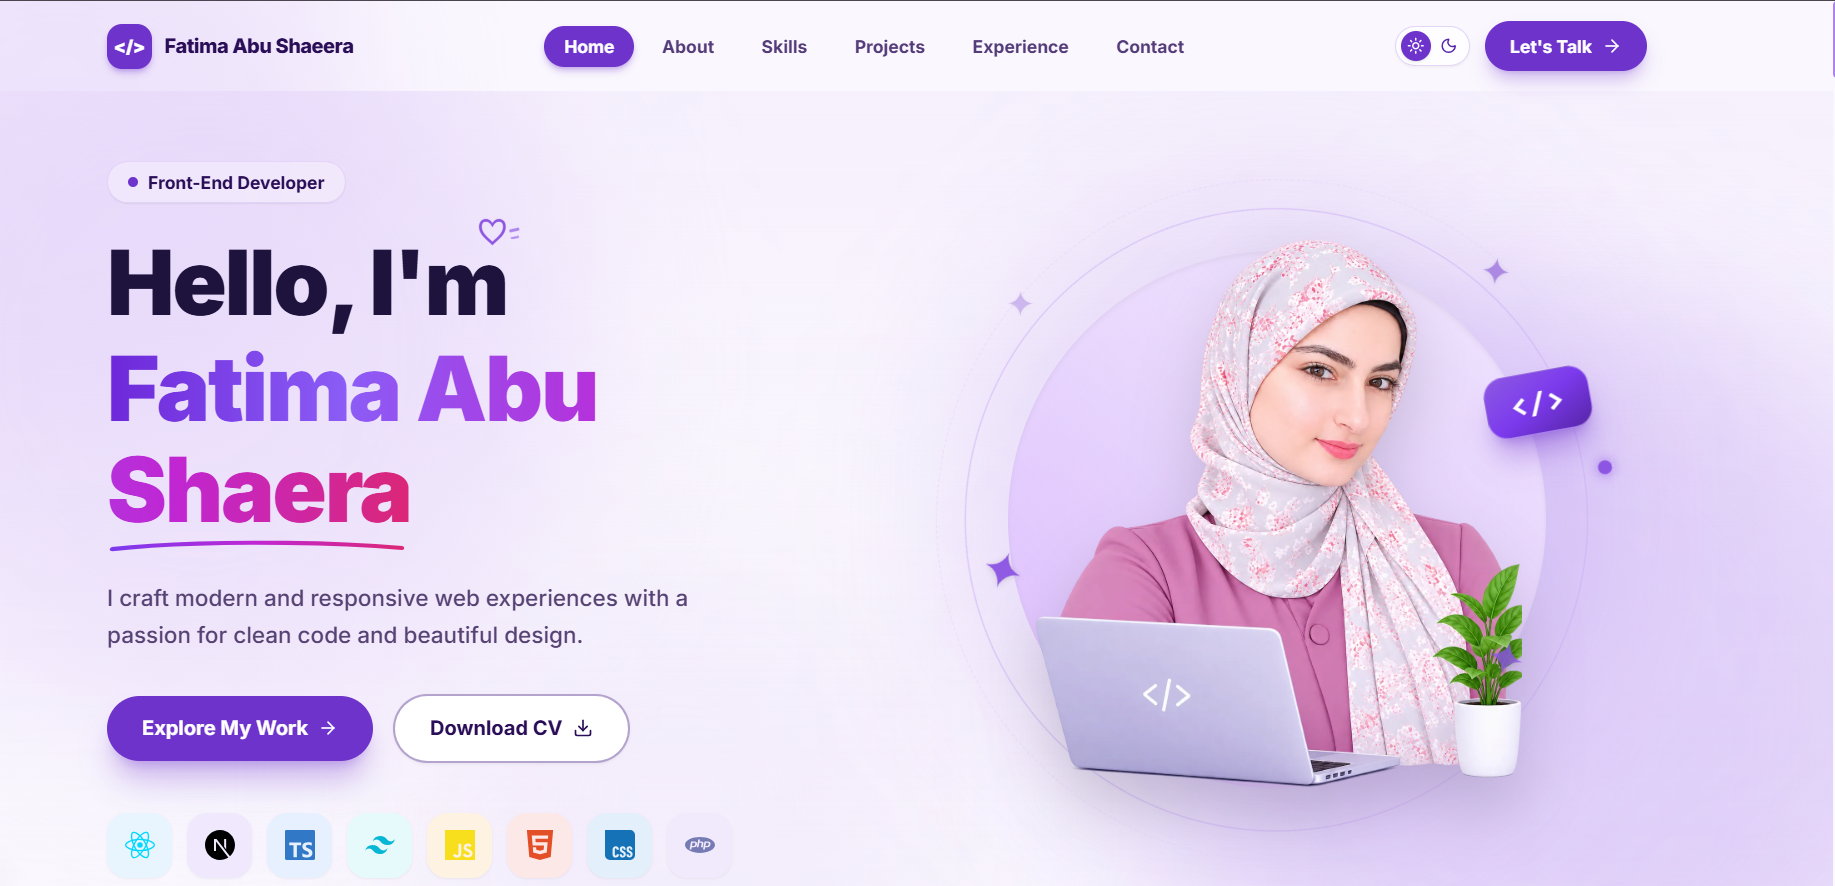
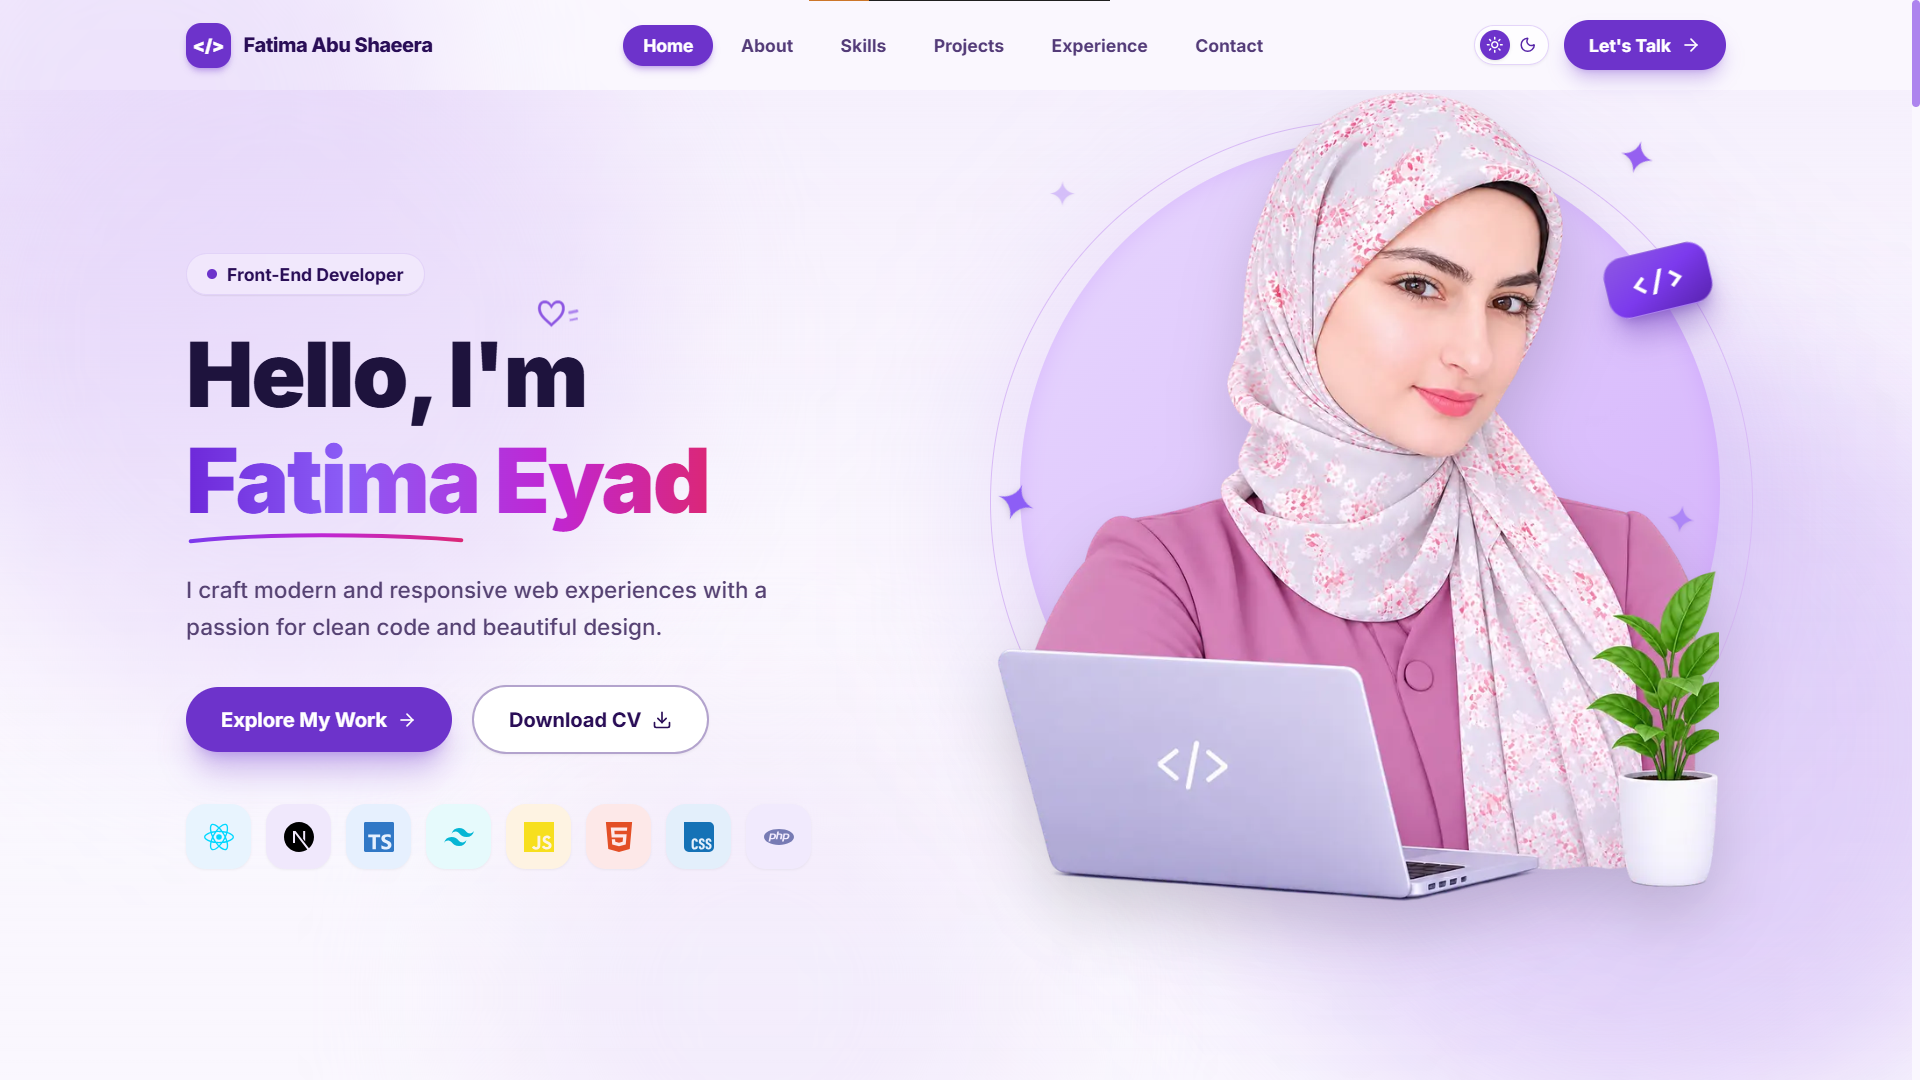
Update portfolio experience and project content

diff --git a/src/components/Experience.js b/src/components/Experience.js
@@ -1,9 +1,29 @@
 "use client";
+import { useRef } from "react";
+import { motion, useScroll, useSpring, useTransform } from "framer-motion";
 import { GraduationCap, Award, Calendar, MapPin, BookOpen } from "lucide-react";
 import Reveal from "./Reveal";
 import { experience } from "@/data/experience";
 
 export default function Experience() {
+  const containerRef = useRef(null);
+
+  // Track scroll position within this timeline container
+  const { scrollYProgress } = useScroll({
+    target: containerRef,
+    offset: ["start 75%", "end 60%"],
+  });
+
+  // Smooth out the progress spring so the line flows organically
+  const smoothProgress = useSpring(scrollYProgress, {
+    stiffness: 90,
+    damping: 24,
+    restDelta: 0.001,
+  });
+
+  // Map progress to height percentage (0% to 100%)
+  const lineHeight = useTransform(smoothProgress, [0, 1], ["0%", "100%"]);
+
   return (
     <section id="experience" className="mx-auto max-w-4xl scroll-mt-24 px-6 py-20">
       <Reveal className="text-center">
@@ -18,67 +38,85 @@ export default function Experience() {
         </p>
       </Reveal>
 
-      <div className="relative mt-14 ml-4 border-l-2 border-brand-200 dark:border-brand-800 pl-8 sm:pl-10 space-y-12">
-        {experience.map((item, i) => {
-          const isEdu = item.type === "education";
-          const Icon = isEdu ? GraduationCap : Award;
+      <div ref={containerRef} className="relative mt-14 ml-2 sm:ml-4">
+        {/* Background Track Line (subtle light track) */}
+        <div className="absolute left-[17px] sm:left-[19px] top-4 bottom-8 w-[3px] rounded-full bg-brand-100/90 dark:bg-brand-950/70" />
 
-          return (
-            <div key={item.title} className="relative group">
-              {/* Timeline marker with icon */}
-              <span className="absolute -left-[45px] sm:-left-[53px] top-1.5 flex size-9 items-center justify-center rounded-full border-4 border-[var(--bg)] bg-brand-600 text-white shadow-md shadow-brand-600/30 transition-transform duration-300 group-hover:scale-110">
-                <Icon className="size-4" />
-              </span>
+        {/* Animated Progress Line that grows smoothly as you scroll */}
+        <motion.div
+          style={{ height: lineHeight }}
+          className="absolute left-[17px] sm:left-[19px] top-4 max-h-[calc(100%-2rem)] w-[3px] rounded-full bg-gradient-to-b from-brand-600 via-purple-500 to-pink-500 shadow-[0_0_14px_rgba(168,85,247,0.7)] z-0 origin-top"
+        >
+          {/* Glowing pulse tip dot at the leading edge */}
+          <div className="absolute -bottom-1 left-1/2 -translate-x-1/2 size-2.5 rounded-full bg-pink-400 shadow-[0_0_10px_#ec4899] animate-pulse" />
+        </motion.div>
 
-              <Reveal delay={i * 0.1}>
-                <div className="rounded-2xl border border-[var(--border)] bg-[var(--surface)] p-6 sm:p-7 shadow-xs backdrop-blur transition-all duration-300 hover:-translate-y-1 hover:shadow-xl hover:shadow-brand-600/15">
-                  {/* Period badge and place */}
-                  <div className="flex flex-wrap items-center justify-between gap-2">
-                    <span className="inline-flex items-center gap-1.5 rounded-full bg-brand-100 dark:bg-[#251246] px-3.5 py-1 text-xs font-bold text-brand-800 dark:text-brand-200 border border-brand-200/80 dark:border-brand-700/80 shadow-2xs">
-                      <Calendar className="size-3.5 text-brand-600 dark:text-brand-400" />
-                      {item.period}
-                    </span>
-                    <span className="inline-flex items-center gap-1 text-xs font-semibold text-brand-800/80 dark:text-brand-200">
-                      <MapPin className="size-3.5 text-brand-600" />
-                      {item.location || item.place}
-                    </span>
-                  </div>
+        {/* Timeline items list */}
+        <div className="space-y-10 sm:space-y-12 pl-12 sm:pl-16">
+          {experience.map((item, i) => {
+            const isEdu = item.type === "education";
+            const Icon = isEdu ? GraduationCap : Award;
 
-                  <h3 className="mt-3 text-lg sm:text-xl font-bold text-[var(--text)]">
-                    {item.title}
-                  </h3>
+            return (
+              <div key={item.title} className="relative group">
+                {/* Timeline marker with icon (sits right on the animated line) */}
+                <motion.span
+                  whileHover={{ scale: 1.15 }}
+                  className="absolute -left-[46px] sm:-left-[60px] top-1.5 flex size-9 sm:size-10 items-center justify-center rounded-full border-4 border-[var(--bg)] bg-brand-600 text-white shadow-md shadow-brand-600/30 transition-all duration-300 group-hover:bg-brand-700 group-hover:shadow-lg group-hover:shadow-brand-600/50 z-10"
+                >
+                  <Icon className="size-4 sm:size-4.5" />
+                </motion.span>
 
-                  <p className="mt-1 text-sm font-bold text-brand-700 dark:text-brand-300">
-                    {item.place}
-                  </p>
-
-                  <p className="mt-3 text-sm leading-relaxed text-[var(--text-muted)] font-normal">
-                    {item.description}
-                  </p>
-
-                  {/* Coursework pills if available */}
-                  {item.coursework && (
-                    <div className="mt-5 border-t border-[var(--border)] pt-4">
-                      <p className="flex items-center gap-1.5 text-xs font-bold uppercase tracking-wider text-[var(--text)]">
-                        <BookOpen className="size-3.5 text-brand-600 dark:text-brand-400" /> Relevant Coursework:
-                      </p>
-                      <div className="mt-2.5 flex flex-wrap gap-2">
-                        {item.coursework.map((course) => (
-                          <span
-                            key={course}
-                            className="rounded-lg bg-white dark:bg-[#1f103a] border border-brand-200 dark:border-brand-700/80 px-3 py-1 text-xs font-semibold text-brand-900 dark:text-white shadow-2xs"
-                          >
-                            {course}
-                          </span>
-                        ))}
-                      </div>
+                <Reveal delay={i * 0.08}>
+                  <div className="rounded-2xl border border-[var(--border)] bg-[var(--surface)] p-6 sm:p-7 shadow-xs backdrop-blur transition-all duration-300 hover:-translate-y-1 hover:shadow-xl hover:shadow-brand-600/15">
+                    {/* Period badge and place */}
+                    <div className="flex flex-wrap items-center justify-between gap-2">
+                      <span className="inline-flex items-center gap-1.5 rounded-full bg-brand-100 dark:bg-[#251246] px-3.5 py-1 text-xs font-bold text-brand-800 dark:text-brand-200 border border-brand-200/80 dark:border-brand-700/80 shadow-2xs">
+                        <Calendar className="size-3.5 text-brand-600 dark:text-brand-400" />
+                        {item.period}
+                      </span>
+                      <span className="inline-flex items-center gap-1 text-xs font-semibold text-brand-800/80 dark:text-brand-200">
+                        <MapPin className="size-3.5 text-brand-600" />
+                        {item.location || item.place}
+                      </span>
                     </div>
-                  )}
-                </div>
-              </Reveal>
-            </div>
-          );
-        })}
+
+                    <h3 className="mt-3 text-lg sm:text-xl font-bold text-[var(--text)]">
+                      {item.title}
+                    </h3>
+
+                    <p className="mt-1 text-sm font-bold text-brand-700 dark:text-brand-300">
+                      {item.place}
+                    </p>
+
+                    <p className="mt-3 text-sm leading-relaxed text-[var(--text-muted)] font-normal">
+                      {item.description}
+                    </p>
+
+                    {/* Coursework pills if available */}
+                    {item.coursework && (
+                      <div className="mt-5 border-t border-[var(--border)] pt-4">
+                        <p className="flex items-center gap-1.5 text-xs font-bold uppercase tracking-wider text-[var(--text)]">
+                          <BookOpen className="size-3.5 text-brand-600 dark:text-brand-400" /> Relevant Coursework:
+                        </p>
+                        <div className="mt-2.5 flex flex-wrap gap-2">
+                          {item.coursework.map((course) => (
+                            <span
+                              key={course}
+                              className="rounded-lg bg-white dark:bg-[#1f103a] border border-brand-200 dark:border-brand-700/80 px-3 py-1 text-xs font-semibold text-brand-900 dark:text-white shadow-2xs"
+                            >
+                              {course}
+                            </span>
+                          ))}
+                        </div>
+                      </div>
+                    )}
+                  </div>
+                </Reveal>
+              </div>
+            );
+          })}
+        </div>
       </div>
     </section>
   );

diff --git a/src/data/projects.js b/src/data/projects.js
@@ -66,7 +66,7 @@ export const projects = [
   subtitle: "Next.js · Tailwind CSS",
   description:
     "A modern, responsive portfolio website showcasing my projects, skills, and education, with smooth animations, a dark mode, and a working contact form.",
-  image: "/image.png", 
+  image: "/protfolio.png", 
   bullets: [
     "Built with Next.js App Router and styled with Tailwind CSS",
     "Light and dark themes with smooth Framer Motion animations",
